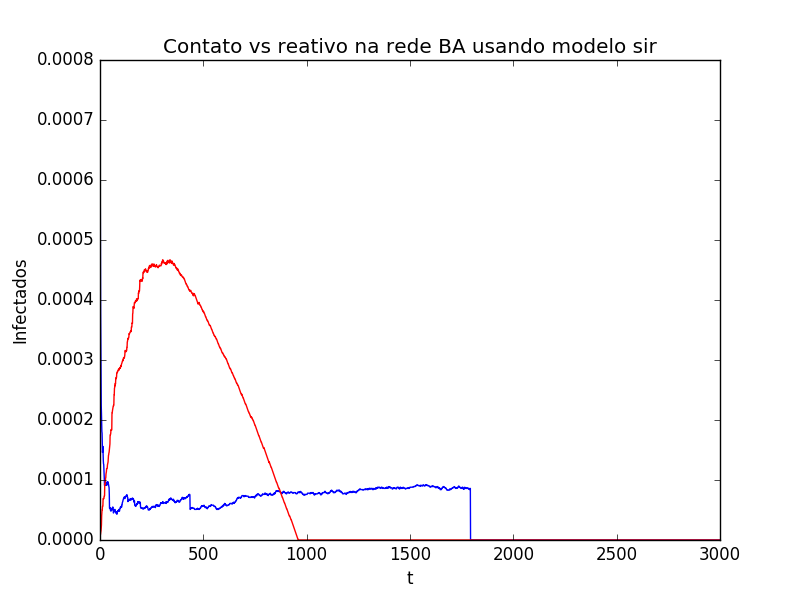
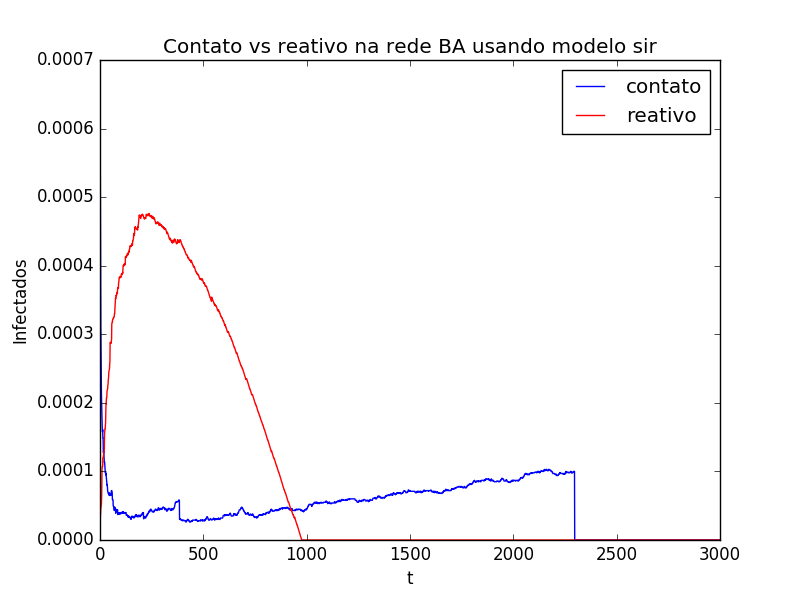
Exercício 4 =]

diff --git a/T4/ex4.py b/T4/ex4.py
@@ -1,0 +1,64 @@
+# Exercício 4: Coeficiente crítico teórico vs prático
+
+from constantes import *
+import epidemia
+import matplotlib.pyplot as plt
+import numpy as np
+
+def calcula_momento (G, n):
+    momento = 0
+    for _, grau in G.degree ():
+        momento += grau ** n
+    return momento / len (G)
+
+def ex4 (BA, ER):
+    BA_lambda_crítico = K_medio / calcula_momento (BA, 2)
+    print ('BA - lambda_crítico = ', BA_lambda_crítico)
+
+    ER_lambda_crítico = K_medio / calcula_momento (ER, 2)
+    print ('ER - lambda_crítico = ', ER_lambda_crítico)
+
+    print ('ex4 - Processando reativo')
+    BA_reativo = []
+    ER_reativo = []
+    lambdas_x = np.arange (0, 0.2, 0.01)
+    for lbda in lambdas_x:
+        beta = lbda / mi_reativo
+        inf, _, _ = epidemia.reativo (BA, 'sis', num_iter_reativo, beta, mi_reativo)
+        BA_reativo.append (inf[-1])
+
+        inf, _, _ = epidemia.reativo (ER, 'sis', num_iter_reativo, beta, mi_reativo)
+        ER_reativo.append (inf[-1])
+
+    print ('ex4 - Processando contato')
+    BA_contato = []
+    ER_contato = []
+    for lbda in lambdas_x:
+        beta = lbda / mi_contato
+        inf, _, _ = epidemia.contato (ER, 'sis', num_iter_contato, beta, mi_contato)
+        ER_contato.append (inf[-1])
+
+        inf, _, _ = epidemia.contato (BA, 'sis', num_iter_contato, beta, mi_contato)
+        BA_contato.append (inf[-1])
+
+    ## Plots
+    # contato
+    plt.figure ('ex4 - contato')
+    plt.clf ()
+    plt.title ('Coeficiente para propagação de epidemias por contato, teórico vs real')
+    plt.plot (lambdas_x, BA_contato, 'b-', label = 'BA')
+    plt.plot (lambdas_x, ER_contato, 'r-', label = 'ER')
+    plt.legend ()
+    plt.xlabel ('lambda')
+    plt.ylabel ('Infectados')
+    plt.savefig ('figuras/ex4-contato.png')
+    # reativo
+    plt.figure ('ex4 - reativo')
+    plt.clf ()
+    plt.title ('Coeficiente para propagação de epidemias reativo, teórico vs real')
+    plt.plot (lambdas_x, BA_reativo, 'b-', label = 'BA')
+    plt.plot (lambdas_x, ER_reativo, 'r-', label = 'ER')
+    plt.legend ()
+    plt.xlabel ('lambda')
+    plt.ylabel ('Infectados')
+    plt.savefig ('figuras/ex4-reativo.png')

diff --git a/T4/ex3.py b/T4/ex3.py
@@ -27,7 +27,9 @@ def ex3 (BA, ER):
     # plot da proporção de infectados no contato
     plt.figure (nome)
     plt.clf ()
-    plt.plot (inf, 'b-', BA_reativo_sir, 'r-')
+    plt.plot (inf, 'b-', label = 'contato')
+    plt.plot (BA_reativo_sir, 'r-', label = 'reativo')
+    plt.legend ()
     plt.title ('Contato vs reativo na rede BA usando modelo ' + modelo)
     plt.xlabel ('t')
     plt.ylabel ('Infectados')
@@ -39,7 +41,9 @@ def ex3 (BA, ER):
     # plot da proporção de infectados no contato
     plt.figure (nome)
     plt.clf ()
-    plt.plot (inf, 'b-', ER_reativo_sir, 'r-')
+    plt.plot (inf, 'b-', label = 'contato')
+    plt.plot (ER_reativo_sir, 'r-', label = 'reativo')
+    plt.legend ()
     plt.title ('Contato vs reativo na rede ER usando modelo ' + modelo)
     plt.xlabel ('t')
     plt.ylabel ('Infectados')

diff --git a/T4/main.py b/T4/main.py
@@ -10,10 +10,10 @@ def main ():
     """Roda os trem"""
     parser = argparse.ArgumentParser ()
     parser.add_argument ('exs_a_rodar', nargs = argparse.REMAINDER, type = int,
-            help = "Exercícios a rodar. Padrão: 1-6.")
+            help = "Exercícios a rodar. Padrão: 1-5.")
 
     opts = parser.parse_args ()
-    processa (opts.exs_a_rodar or [1, 2, 3, 4, 5, 6])
+    processa (opts.exs_a_rodar or [1, 2, 3, 4, 5])
 
 if __name__ == '__main__':
     main ()

diff --git a/T4/processador.py b/T4/processador.py
@@ -6,6 +6,8 @@ from constantes import *
 from ex1 import ex1
 from ex2 import ex2
 from ex3 import ex3
+from ex4 import ex4
+from ex5 import ex5
 
 def processa (exs_a_rodar):
     BA = nx.barabasi_albert_graph (N_redes, K_medio)
@@ -17,3 +19,7 @@ def processa (exs_a_rodar):
         ex2 (BA, ER)
     if 3 in exs_a_rodar:
         ex3 (BA, ER)
+    if 4 in exs_a_rodar:
+        ex4 (BA, ER)
+    if 5 in exs_a_rodar:
+        ex5 (BA)

diff --git a/T4/ex5.py b/T4/ex5.py
@@ -1,0 +1,8 @@
+# Exercício 5: Imunização em pontos aleatórios vs hubs
+
+from constantes import *
+import epidemia
+import matplotlib.pyplot as plt
+
+def ex5 (BA):
+    raise NotImplementedError ('5 ainda não')
